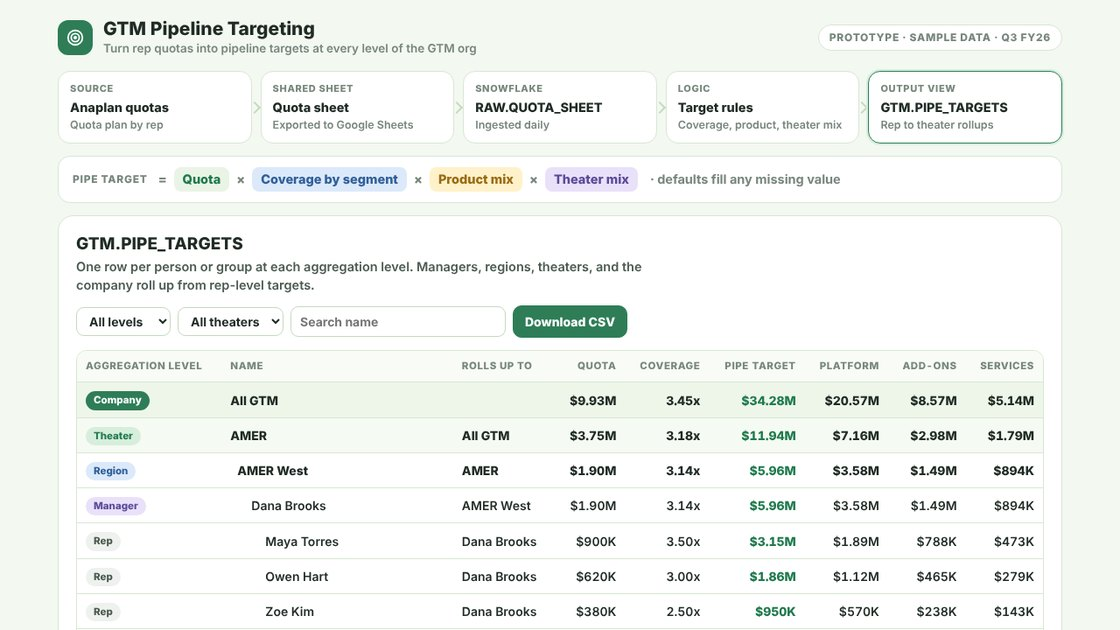
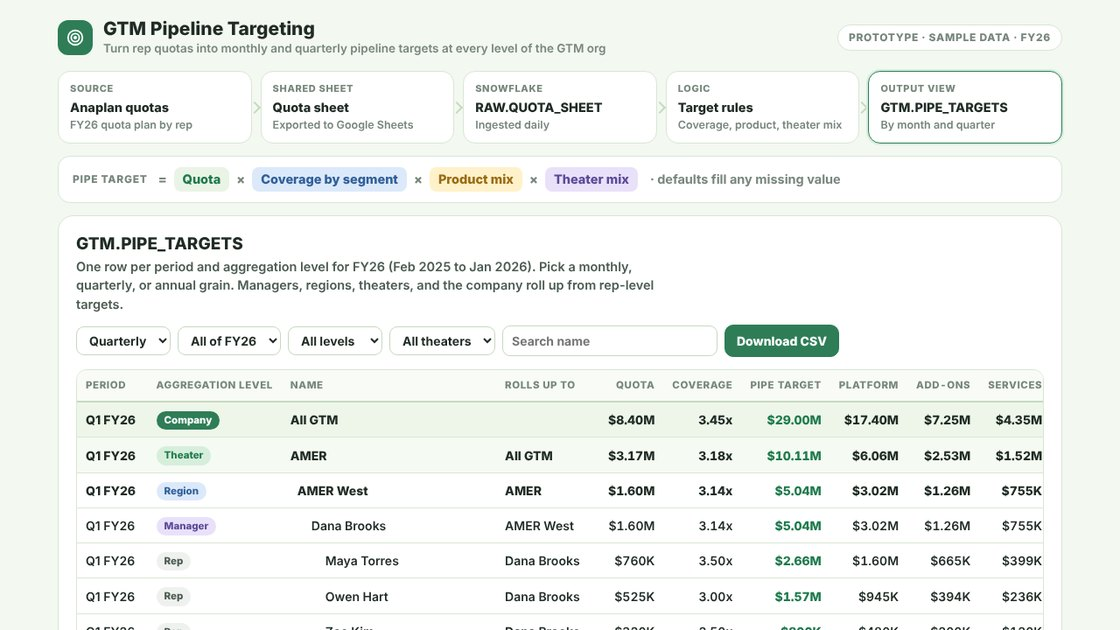
Scorecard: gross retention rate; pipeline targets: FY26 monthly and quarterly
OKR and KPI Scorecard: replace net revenue retention with gross retention
rate and add a formula tooltip (customers at start still here / customers
at start).

GTM Pipeline Targeting: quota sheet now has Q1-Q4 FY26 quotas; output
view adds time grain (monthly, quarterly, annual) and period columns
listed for the full year, with editable monthly phasing, updated view
SQL, and CSV export by grain.

Claude-Session: https://claude.ai/code/session_012KZoca3tAZxyi3oCaJbwMw

diff --git a/pipeline-targets.html b/pipeline-targets.html
@@ -79,7 +79,9 @@ tr.l-region td{font-weight:800}
 .meta code,.code code{font-family:var(--mono)}
 
 /* assumptions */
-.agrid{display:grid;grid-template-columns:repeat(3,minmax(0,1fr));gap:14px}
+.agrid{display:grid;grid-template-columns:repeat(4,minmax(0,1fr));gap:14px}
+.inrow input{width:72px!important}
+tr.pstart td{border-top:2px solid var(--line-2)}
 .box{border:1px solid var(--line);border-radius:14px;padding:14px}
 .box h3{font-size:15px;font-weight:800;margin-bottom:2px}
 .box p{font-size:13px;color:var(--ink-3);margin-bottom:10px}
@@ -98,8 +100,8 @@ tr.l-region td{font-weight:800}
 .toast{position:fixed;left:50%;bottom:20px;transform:translateX(-50%) translateY(20px);opacity:0;background:var(--ink);color:#fff;border-radius:999px;padding:9px 18px;font-size:14px;font-weight:700;transition:all .25s ease;pointer-events:none}
 .toast.show{opacity:1;transform:translateX(-50%) translateY(0)}
 .foot{margin-top:18px;text-align:center;font-size:12.5px;color:var(--ink-3)}
-@media (max-width:900px){ .flow{grid-template-columns:repeat(2,minmax(0,1fr))} .step::after{display:none} .agrid{grid-template-columns:minmax(0,1fr)} }
-@media (max-width:520px){ .flow{grid-template-columns:minmax(0,1fr)} .panel{padding:14px} }
+@media (max-width:900px){ .flow{grid-template-columns:repeat(2,minmax(0,1fr))} .step::after{display:none} .agrid{grid-template-columns:repeat(2,minmax(0,1fr))} }
+@media (max-width:520px){ .agrid{grid-template-columns:minmax(0,1fr)} .flow{grid-template-columns:minmax(0,1fr)} .panel{padding:14px} }
 </style>
 </head>
 <body>
@@ -107,17 +109,17 @@ tr.l-region td{font-weight:800}
   <header class="top">
     <div class="brand">
       <div class="logo" aria-hidden="true"><svg viewBox="0 0 24 24" fill="none" stroke="#fff" stroke-width="2" stroke-linecap="round" stroke-linejoin="round"><circle cx="12" cy="12" r="9"/><circle cx="12" cy="12" r="5"/><circle cx="12" cy="12" r="1.2" fill="#fff"/></svg></div>
-      <div><h1>GTM Pipeline Targeting</h1><p>Turn rep quotas into pipeline targets at every level of the GTM org</p></div>
+      <div><h1>GTM Pipeline Targeting</h1><p>Turn rep quotas into monthly and quarterly pipeline targets at every level of the GTM org</p></div>
     </div>
-    <span class="chip">Prototype · sample data · Q3 FY26</span>
+    <span class="chip">Prototype · sample data · FY26</span>
   </header>
 
   <nav class="flow" aria-label="Data flow">
-    <button class="step" data-v="none"><small>Source</small><b>Anaplan quotas</b><span>Quota plan by rep</span></button>
+    <button class="step" data-v="none"><small>Source</small><b>Anaplan quotas</b><span>FY26 quota plan by rep</span></button>
     <button class="step" data-v="input"><small>Shared sheet</small><b>Quota sheet</b><span>Exported to Google Sheets</span></button>
     <button class="step" data-v="input"><small>Snowflake</small><b>RAW.QUOTA_SHEET</b><span>Ingested daily</span></button>
     <button class="step" data-v="assume"><small>Logic</small><b>Target rules</b><span>Coverage, product, theater mix</span></button>
-    <button class="step on" data-v="output"><small>Output view</small><b>GTM.PIPE_TARGETS</b><span>Rep to theater rollups</span></button>
+    <button class="step on" data-v="output"><small>Output view</small><b>GTM.PIPE_TARGETS</b><span>By month and quarter</span></button>
   </nav>
 
   <div class="formula" aria-label="Formula">
@@ -132,22 +134,24 @@ tr.l-region td{font-weight:800}
   <!-- OUTPUT -->
   <section class="panel" id="v-output">
     <div class="ph">
-      <div><h2>GTM.PIPE_TARGETS</h2><p>One row per person or group at each aggregation level. Managers, regions, theaters, and the company roll up from rep-level targets.</p></div>
+      <div><h2>GTM.PIPE_TARGETS</h2><p>One row per period and aggregation level for FY26 (Feb 2025 to Jan 2026). Pick a monthly, quarterly, or annual grain. Managers, regions, theaters, and the company roll up from rep-level targets.</p></div>
       <div class="controls">
+        <select class="inline" id="fGrain" aria-label="Time grain"><option value="quarter">Quarterly</option><option value="month">Monthly</option><option value="year">Annual</option></select>
+        <select class="inline" id="fPeriod" aria-label="Period"></select>
         <select class="inline" id="fLevel" aria-label="Aggregation level"><option value="">All levels</option><option value="company">Company</option><option value="theater">Theater</option><option value="region">Region</option><option value="manager">Manager</option><option value="rep">Rep</option></select>
         <select class="inline" id="fTheater" aria-label="Theater"><option value="">All theaters</option><option>AMER</option><option>EMEA</option><option>APAC</option></select>
         <input class="search" id="fSearch" type="search" placeholder="Search name" aria-label="Search name">
         <button class="btn primary" id="csv">Download CSV</button>
       </div>
     </div>
-    <div class="tw"><table><thead><tr><th>Aggregation level</th><th>Name</th><th>Rolls up to</th><th class="num">Quota</th><th class="num">Coverage</th><th class="num">Pipe target</th><th class="num">Platform</th><th class="num">Add-ons</th><th class="num">Services</th></tr></thead><tbody id="outBody"></tbody></table></div>
+    <div class="tw"><table><thead><tr><th>Period</th><th>Aggregation level</th><th>Name</th><th>Rolls up to</th><th class="num">Quota</th><th class="num">Coverage</th><th class="num">Pipe target</th><th class="num">Platform</th><th class="num">Add-ons</th><th class="num">Services</th></tr></thead><tbody id="outBody"></tbody></table></div>
     <div class="meta" id="outMeta"></div>
   </section>
 
   <!-- INPUT -->
   <section class="panel" id="v-input" hidden>
-    <div class="ph"><div><h2>RAW.QUOTA_SHEET</h2><p>Quarterly quotas exported from Anaplan to a shared Google Sheet and ingested into Snowflake. Rows missing a segment use the default coverage.</p></div></div>
-    <div class="tw"><table><thead><tr><th>rep_name</th><th>manager</th><th>region</th><th>theater</th><th>segment</th><th class="num">q3_quota</th></tr></thead><tbody id="inBody"></tbody></table></div>
+    <div class="ph"><div><h2>RAW.QUOTA_SHEET</h2><p>FY26 quarterly quotas exported from Anaplan to a shared Google Sheet and ingested into Snowflake. Rows missing a segment use the default coverage.</p></div></div>
+    <div class="tw"><table><thead><tr><th>rep_name</th><th>manager</th><th>region</th><th>theater</th><th>segment</th><th class="num">q1_quota</th><th class="num">q2_quota</th><th class="num">q3_quota</th><th class="num">q4_quota</th><th class="num">fy26_total</th></tr></thead><tbody id="inBody"></tbody></table></div>
     <div class="meta"><span>Source: <code>Anaplan › FY26 Quota Plan</code></span><span>Sheet: <code>FY26 Quotas (export)</code></span><span>Loaded: <code>RAW.QUOTA_SHEET</code>, 18 rows</span></div>
   </section>
 
@@ -158,6 +162,7 @@ tr.l-region td{font-weight:800}
       <div class="box"><h3>Coverage by segment</h3><p>Pipeline needed per $1 of quota.</p><div id="covIn"></div></div>
       <div class="box"><h3>Product mix</h3><p>Share of pipeline by product. Must total 100%.</p><div id="mixIn"></div><div class="sum" id="mixSum"></div></div>
       <div class="box"><h3>Theater mix</h3><p>Adjusts for conversion differences by theater.</p><div id="thIn"></div></div>
+      <div class="box"><h3>Monthly phasing</h3><p>How each quarter's target splits across its three months. Must total 100%.</p><div id="phIn"></div><div class="sum" id="phSum"></div></div>
     </div>
   </section>
 
@@ -175,19 +180,33 @@ tr.l-region td{font-weight:800}
 <div class="toast" id="toast" role="status" aria-live="polite"></div>
 
 <script>
-/* ------------ sample quota sheet ------------ */
+/* ------------ sample quota sheet (FY26 = Feb 2025 to Jan 2026) ------------ */
 const ORG = [
-  {theater:'AMER', region:'West',   manager:'Dana Brooks',  reps:[['Maya Torres','Enterprise',900000],['Owen Hart','Mid-Market',620000],['Zoe Kim','SMB',380000]]},
-  {theater:'AMER', region:'East',   manager:'Luis Ortega',  reps:[['Jordan Lee','Enterprise',850000],['Rachel Green','Mid-Market',600000],['Sam Patel','',400000]]},
-  {theater:'EMEA', region:'UK&I',   manager:'Fiona Walsh',  reps:[['Oliver Grant','Enterprise',780000],['Amelia Price','Mid-Market',540000],['Harry Doyle','SMB',350000]]},
-  {theater:'EMEA', region:'DACH',   manager:'Jonas Weber',  reps:[['Lena Fischer','Enterprise',760000],['Max Braun','Mid-Market',520000],['Mia Wolf','',340000]]},
-  {theater:'APAC', region:'ANZ',    manager:'Chloe Tan',    reps:[['Jack Wilson','Enterprise',640000],['Ruby Chen','Mid-Market',450000],['Liam Ng','SMB',300000]]},
-  {theater:'APAC', region:'Japan',  manager:'Kenji Mori',   reps:[['Hana Sato','Enterprise',700000],['Yuto Ito','Mid-Market',480000],['Aiko Mori','SMB',320000]]}
+  {theater:'AMER', region:'West',   manager:'Dana Brooks',  reps:[['Maya Torres','Enterprise',3460000],['Owen Hart','Mid-Market',2380000],['Zoe Kim','SMB',1460000]]},
+  {theater:'AMER', region:'East',   manager:'Luis Ortega',  reps:[['Jordan Lee','Enterprise',3270000],['Rachel Green','Mid-Market',2310000],['Sam Patel','',1540000]]},
+  {theater:'EMEA', region:'UK&I',   manager:'Fiona Walsh',  reps:[['Oliver Grant','Enterprise',3000000],['Amelia Price','Mid-Market',2080000],['Harry Doyle','SMB',1350000]]},
+  {theater:'EMEA', region:'DACH',   manager:'Jonas Weber',  reps:[['Lena Fischer','Enterprise',2920000],['Max Braun','Mid-Market',2000000],['Mia Wolf','',1310000]]},
+  {theater:'APAC', region:'ANZ',    manager:'Chloe Tan',    reps:[['Jack Wilson','Enterprise',2460000],['Ruby Chen','Mid-Market',1730000],['Liam Ng','SMB',1150000]]},
+  {theater:'APAC', region:'Japan',  manager:'Kenji Mori',   reps:[['Hana Sato','Enterprise',2690000],['Yuto Ito','Mid-Market',1850000],['Aiko Mori','SMB',1230000]]}
 ];
-const REPS = ORG.flatMap(g => g.reps.map(r => ({name:r[0], segment:r[1], quota:r[2], manager:g.manager, region:g.region, theater:g.theater})));
+const Q_WEIGHTS = [0.22, 0.24, 0.26, 0.28];   // how Anaplan phases each rep's annual quota by quarter
+const round5k = v => Math.round(v/5000)*5000;
+const REPS = ORG.flatMap(g => g.reps.map(r => {
+  const q = Q_WEIGHTS.map(w => round5k(r[2]*w));
+  return {name:r[0], segment:r[1], q, fy:q.reduce((a,b)=>a+b,0), manager:g.manager, region:g.region, theater:g.theater};
+}));
 const PRODUCTS = ['Platform','Add-ons','Services'];
-const DEFAULTS = {cov:{Enterprise:3.5,'Mid-Market':3.0,SMB:2.5,Default:3.0}, mix:{Platform:60,'Add-ons':25,Services:15}, th:{AMER:1.00,EMEA:1.10,APAC:1.20}};
+const MONTHS = ['Feb 2025','Mar 2025','Apr 2025','May 2025','Jun 2025','Jul 2025','Aug 2025','Sep 2025','Oct 2025','Nov 2025','Dec 2025','Jan 2026'];
+const DEFAULTS = {cov:{Enterprise:3.5,'Mid-Market':3.0,SMB:2.5,Default:3.0}, mix:{Platform:60,'Add-ons':25,Services:15}, th:{AMER:1.00,EMEA:1.10,APAC:1.20}, ph:{'Month 1':30,'Month 2':33,'Month 3':37}};
 let A = JSON.parse(JSON.stringify(DEFAULTS));
+
+/* periods: each has a label and a function returning a rep's quota for it */
+function periods(grain){
+  if (grain==='year') return [{id:'FY26', label:'FY26', quota:r=>r.fy}];
+  if (grain==='quarter') return [0,1,2,3].map(i => ({id:'Q'+(i+1), label:'Q'+(i+1)+' FY26', quota:r=>r.q[i]}));
+  const ph = Object.values(A.ph);
+  return MONTHS.map((m,i) => ({id:'M'+(i+1), label:m, sub:'Q'+(Math.floor(i/3)+1), quota:r=>r.q[Math.floor(i/3)]*ph[i%3]/100}));
+}
 
 /* ------------ helpers ------------ */
 const $ = s => document.querySelector(s);
@@ -196,28 +215,32 @@ const money = v => v>=1e6 ? '$'+(v/1e6).toFixed(2)+'M' : '$'+Math.round(v/1e3)+'
 let toastT; function toast(m){ const t=$('#toast'); t.textContent=m; t.classList.add('show'); clearTimeout(toastT); toastT=setTimeout(()=>t.classList.remove('show'),1800); }
 
 /* ------------ target logic ------------ */
-function repTargets(r){
+function repTargets(r, quota){
   const cov = r.segment && A.cov[r.segment] != null ? A.cov[r.segment] : A.cov.Default;
   const th = A.th[r.theater] != null ? A.th[r.theater] : 1;
   const by = {}; let total = 0;
-  PRODUCTS.forEach(p => { by[p] = r.quota * cov * (A.mix[p]/100) * th; total += by[p]; });
-  return {cov, by, total, usedDefault: !r.segment};
+  PRODUCTS.forEach(p => { by[p] = quota * cov * (A.mix[p]/100) * th; total += by[p]; });
+  return {by, total};
 }
-function buildRows(){
+const GRAIN_LBL = {month:'Monthly', quarter:'Quarterly', year:'Annual'};
+function buildRows(grain){
   const rows = [];
-  const add = (level, name, parent, theater, reps, extra={}) => {
-    const t = reps.map(repTargets), quota = reps.reduce((s,r)=>s+r.quota,0);
-    const by = {}; PRODUCTS.forEach(p => by[p] = t.reduce((s,x)=>s+x.by[p],0));
-    const total = t.reduce((s,x)=>s+x.total,0);
-    rows.push(Object.assign({level, name, parent, theater, quota, total, by, cov: total/quota}, extra));
-  };
-  add('company','All GTM','',  'Global', REPS);
-  ['AMER','EMEA','APAC'].forEach(th => {
-    add('theater', th, 'All GTM', th, REPS.filter(r=>r.theater===th));
-    ORG.filter(g=>g.theater===th).forEach(g => {
-      add('region', th+' '+g.region, th, th, REPS.filter(r=>r.region===g.region));
-      add('manager', g.manager, th+' '+g.region, th, REPS.filter(r=>r.manager===g.manager));
-      REPS.filter(r=>r.manager===g.manager).forEach(r => add('rep', r.name, g.manager, th, [r], {usedDefault: !r.segment, segment:r.segment}));
+  periods(grain).forEach(per => {
+    const add = (level, name, parent, theater, reps, extra={}) => {
+      const quota = reps.reduce((s,r)=>s+per.quota(r),0);
+      const t = reps.map(r => repTargets(r, per.quota(r)));
+      const by = {}; PRODUCTS.forEach(p => by[p] = t.reduce((s,x)=>s+x.by[p],0));
+      const total = t.reduce((s,x)=>s+x.total,0);
+      rows.push(Object.assign({grain:GRAIN_LBL[grain], period:per.label, pid:per.id, level, name, parent, theater, quota, total, by, cov: quota? total/quota : 0}, extra));
+    };
+    add('company','All GTM','','Global', REPS);
+    ['AMER','EMEA','APAC'].forEach(th => {
+      add('theater', th, 'All GTM', th, REPS.filter(r=>r.theater===th));
+      ORG.filter(g=>g.theater===th).forEach(g => {
+        add('region', th+' '+g.region, th, th, REPS.filter(r=>r.region===g.region));
+        add('manager', g.manager, th+' '+g.region, th, REPS.filter(r=>r.manager===g.manager));
+        REPS.filter(r=>r.manager===g.manager).forEach(r => add('rep', r.name, g.manager, th, [r], {usedDefault: !r.segment}));
+      });
     });
   });
   return rows;
@@ -226,93 +249,118 @@ const IND = {company:'', theater:'', region:'ind1', manager:'ind2', rep:'ind3'};
 const LVL = {company:'Company', theater:'Theater', region:'Region', manager:'Manager', rep:'Rep'};
 
 /* ------------ views ------------ */
+function fillPeriods(){
+  const g = $('#fGrain').value, cur = $('#fPeriod').value;
+  const opts = periods(g);
+  $('#fPeriod').innerHTML = (opts.length>1 ? '<option value="">All of FY26</option>' : '') + opts.map(p=>`<option value="${p.id}">${p.label}</option>`).join('');
+  if ([...$('#fPeriod').options].some(o=>o.value===cur)) $('#fPeriod').value = cur;
+}
 function renderOutput(){
-  const lv = $('#fLevel').value, th = $('#fTheater').value, q = $('#fSearch').value.trim().toLowerCase();
-  const rows = buildRows().filter(r => (!lv || r.level===lv) && (!th || r.theater===th) && (!q || r.name.toLowerCase().includes(q)));
+  const g = $('#fGrain').value, pid = $('#fPeriod').value, lv = $('#fLevel').value, th = $('#fTheater').value, q = $('#fSearch').value.trim().toLowerCase();
+  const all = buildRows(g);
+  const rows = all.filter(r => (!pid || r.pid===pid) && (!lv || r.level===lv) && (!th || r.theater===th) && (!q || r.name.toLowerCase().includes(q)));
   const flat = !!lv || !!q;
-  $('#outBody').innerHTML = rows.map(r => `<tr class="l-${r.level}">
+  let last = null;
+  $('#outBody').innerHTML = rows.map(r => {
+    const first = r.period !== last; last = r.period;
+    return `<tr class="l-${r.level}${first?' pstart':''}">
+    <td>${esc(r.period)}</td>
     <td><span class="lv lv-${r.level}">${LVL[r.level]}</span></td>
     <td class="${flat?'':IND[r.level]}">${esc(r.name)}${r.usedDefault?'<span class="flag" title="Segment missing in quota sheet">default coverage</span>':''}</td>
     <td>${esc(r.parent)}</td>
     <td class="num">${money(r.quota)}</td><td class="num">${r.cov.toFixed(2)}x</td><td class="num tgt">${money(r.total)}</td>
-    ${PRODUCTS.map(p=>`<td class="num">${money(r.by[p])}</td>`).join('')}</tr>`).join('') || '<tr><td colspan="9" style="color:var(--ink-3)">No rows match these filters.</td></tr>';
-  const all = buildRows(), co = all[0];
-  $('#outMeta').innerHTML = `<span>${all.length} rows: 1 company, 3 theaters, 6 regions, 6 managers, 18 reps</span><span>Company pipe target <b style="color:var(--ink)">${money(co.total)}</b> on ${money(co.quota)} quota (${co.cov.toFixed(2)}x)</span><span>${REPS.filter(r=>!r.segment).length} reps used default coverage</span>`;
-  window._rows = all;
+    ${PRODUCTS.map(p=>`<td class="num">${money(r.by[p])}</td>`).join('')}</tr>`;
+  }).join('') || '<tr><td colspan="10" style="color:var(--ink-3)">No rows match these filters.</td></tr>';
+  const fy = buildRows('year')[0], np = periods(g).length;
+  $('#outMeta').innerHTML = `<span>${GRAIN_LBL[g]} grain: ${np} period${np>1?'s':''} × 34 rows = ${all.length} rows (showing ${rows.length})</span><span>FY26 company pipe target <b style="color:var(--ink)">${money(fy.total)}</b> on ${money(fy.quota)} quota</span><span>${REPS.filter(r=>!r.segment).length} reps used default coverage</span>`;
+  window._rows = rows;
 }
 function renderInput(){
-  $('#inBody').innerHTML = REPS.map(r => `<tr><td>${esc(r.name)}</td><td>${esc(r.manager)}</td><td>${esc(r.region)}</td><td>${r.theater}</td><td>${r.segment ? r.segment : '<span class="flag" style="margin:0">missing</span>'}</td><td class="num">${money(r.quota)}</td></tr>`).join('');
+  $('#inBody').innerHTML = REPS.map(r => `<tr><td>${esc(r.name)}</td><td>${esc(r.manager)}</td><td>${esc(r.region)}</td><td>${r.theater}</td><td>${r.segment ? r.segment : '<span class="flag" style="margin:0">missing</span>'}</td>${r.q.map(v=>`<td class="num">${money(v)}</td>`).join('')}<td class="num" style="font-weight:800">${money(r.fy)}</td></tr>`).join('');
 }
 function inputRow(group, key, val, step, suffix){
-  return `<div class="inrow"><label for="in-${group}-${key}">${key==='Default'?'Default (segment missing)':key}</label><span><input id="in-${group}-${key}" data-g="${group}" data-k="${key}" type="number" step="${step}" min="0" value="${val}"> <span style="color:var(--ink-3);font-weight:800">${suffix}</span></span></div>`;
+  return `<div class="inrow"><label for="in-${group}-${key}">${key==='Default'?'Default':key}</label><span><input id="in-${group}-${key.replace(/\s/g,'')}" data-g="${group}" data-k="${key}" type="number" step="${step}" min="0" value="${val}"> <span style="color:var(--ink-3);font-weight:800">${suffix}</span></span></div>`;
 }
 function renderAssume(){
   $('#covIn').innerHTML = Object.entries(A.cov).map(([k,v])=>inputRow('cov',k,v,0.1,'x')).join('');
   $('#mixIn').innerHTML = Object.entries(A.mix).map(([k,v])=>inputRow('mix',k,v,1,'%')).join('');
   $('#thIn').innerHTML = Object.entries(A.th).map(([k,v])=>inputRow('th',k,v.toFixed(2),0.05,'×')).join('');
-  mixCheck();
+  $('#phIn').innerHTML = Object.entries(A.ph).map(([k,v])=>inputRow('ph',k,v,1,'%')).join('');
+  sumCheck();
   document.querySelectorAll('.box input').forEach(i => i.oninput = () => {
     const v = parseFloat(i.value); if (isNaN(v) || v<0) return;
-    A[i.dataset.g][i.dataset.k] = v; mixCheck(); renderSql();
+    A[i.dataset.g][i.dataset.k] = v; sumCheck(); renderSql();
   });
 }
-function mixCheck(){
-  const s = Object.values(A.mix).reduce((a,b)=>a+b,0);
-  $('#mixSum').innerHTML = s===100 ? '<span class="ok">Total 100% ✓</span>' : `<span class="bad">Total ${s}%. Adjust to 100% so targets add up to the full coverage amount.</span>`;
+function sumCheck(){
+  [['mix','#mixSum','targets add up to the full coverage amount'],['ph','#phSum','months add up to the quarter']].forEach(([g,id,why]) => {
+    const s = Object.values(A[g]).reduce((a,b)=>a+b,0);
+    $(id).innerHTML = s===100 ? '<span class="ok">Total 100% ✓</span>' : `<span class="bad">Total ${s}%. Adjust to 100% so ${why}.</span>`;
+  });
 }
 function renderSql(){
-  const c=A.cov, m=A.mix, t=A.th;
-  $('#sqlPre').innerHTML = `<span class="cm">-- GTM.PIPE_TARGETS: pipeline targets by aggregation level</span>
+  const c=A.cov, m=A.mix, t=A.th, p=Object.values(A.ph);
+  $('#sqlPre').innerHTML = `<span class="cm">-- GTM.PIPE_TARGETS: pipeline targets by time grain, period, and aggregation level (FY26)</span>
 <span class="kw">create or replace view</span> GTM.PIPE_TARGETS <span class="kw">as</span>
-<span class="kw">with</span> quotas <span class="kw">as</span> (
-  <span class="kw">select</span> rep_name, manager, region, theater, segment, q3_quota <span class="kw">as</span> quota
-  <span class="kw">from</span> RAW.QUOTA_SHEET                      <span class="cm">-- Anaplan export via Google Sheets</span>
+<span class="kw">with</span> quarterly_quota <span class="kw">as</span> (           <span class="cm">-- Anaplan export via Google Sheets, one column per quarter</span>
+  <span class="kw">select</span> rep_name, manager, region, theater, segment, fiscal_quarter, quota
+  <span class="kw">from</span> RAW.QUOTA_SHEET
+  <span class="kw">unpivot</span> (quota <span class="kw">for</span> fiscal_quarter <span class="kw">in</span> (q1_quota <span class="kw">as</span> <span class="st">'Q1'</span>, q2_quota <span class="kw">as</span> <span class="st">'Q2'</span>, q3_quota <span class="kw">as</span> <span class="st">'Q3'</span>, q4_quota <span class="kw">as</span> <span class="st">'Q4'</span>))
 ),
-rules <span class="kw">as</span> (
-  <span class="kw">select</span> q.*,
-    <span class="fn">coalesce</span>(cov.multiple, ${c.Default.toFixed(1)})      <span class="kw">as</span> coverage,       <span class="cm">-- default when segment is missing</span>
-    <span class="fn">coalesce</span>(th.factor, 1.00)        <span class="kw">as</span> theater_mix
-  <span class="kw">from</span> quotas q
-  <span class="kw">left join</span> CONFIG.COVERAGE_BY_SEGMENT cov <span class="kw">on</span> cov.segment = q.segment   <span class="cm">-- Ent ${c.Enterprise}x, MM ${c['Mid-Market']}x, SMB ${c.SMB}x</span>
-  <span class="kw">left join</span> CONFIG.THEATER_MIX th          <span class="kw">on</span> th.theater = q.theater    <span class="cm">-- AMER ${t.AMER.toFixed(2)}, EMEA ${t.EMEA.toFixed(2)}, APAC ${t.APAC.toFixed(2)}</span>
+monthly_quota <span class="kw">as</span> (             <span class="cm">-- month phasing within the quarter: ${p[0]}% / ${p[1]}% / ${p[2]}%</span>
+  <span class="kw">select</span> q.rep_name, q.manager, q.region, q.theater, q.segment, q.fiscal_quarter,
+         c.fiscal_month, q.quota * ph.pct <span class="kw">as</span> quota
+  <span class="kw">from</span> quarterly_quota q
+  <span class="kw">join</span> CONFIG.FISCAL_CALENDAR c <span class="kw">on</span> c.fiscal_year = <span class="st">'FY26'</span> <span class="kw">and</span> c.fiscal_quarter = q.fiscal_quarter
+  <span class="kw">join</span> CONFIG.MONTH_PHASING ph  <span class="kw">on</span> ph.month_of_quarter = c.month_of_quarter
 ),
 rep_targets <span class="kw">as</span> (
-  <span class="kw">select</span> r.*, pm.product,
-    r.quota * r.coverage * pm.mix_pct * r.theater_mix <span class="kw">as</span> pipe_target
-  <span class="kw">from</span> rules r
-  <span class="kw">cross join</span> CONFIG.PRODUCT_MIX pm             <span class="cm">-- Platform ${m.Platform}%, Add-ons ${m['Add-ons']}%, Services ${m.Services}%</span>
+  <span class="kw">select</span> mq.*, pm.product,
+    mq.quota
+    * <span class="fn">coalesce</span>(cov.multiple, ${c.Default.toFixed(1)})    <span class="cm">-- Ent ${c.Enterprise}x, MM ${c['Mid-Market']}x, SMB ${c.SMB}x; default when segment is missing</span>
+    * pm.mix_pct                      <span class="cm">-- Platform ${m.Platform}%, Add-ons ${m['Add-ons']}%, Services ${m.Services}%</span>
+    * <span class="fn">coalesce</span>(th.factor, 1.00)      <span class="cm">-- AMER ${t.AMER.toFixed(2)}, EMEA ${t.EMEA.toFixed(2)}, APAC ${t.APAC.toFixed(2)}</span>
+    <span class="kw">as</span> pipe_target
+  <span class="kw">from</span> monthly_quota mq
+  <span class="kw">left join</span> CONFIG.COVERAGE_BY_SEGMENT cov <span class="kw">on</span> cov.segment = mq.segment
+  <span class="kw">left join</span> CONFIG.THEATER_MIX th          <span class="kw">on</span> th.theater = mq.theater
+  <span class="kw">cross join</span> CONFIG.PRODUCT_MIX pm
+),
+grains <span class="kw">as</span> (                     <span class="cm">-- the same monthly rows, labeled at each time grain</span>
+  <span class="kw">select</span> <span class="st">'Monthly'</span>   <span class="kw">as</span> time_grain, fiscal_month          <span class="kw">as</span> period, * <span class="kw">from</span> rep_targets
+  <span class="kw">union all select</span> <span class="st">'Quarterly'</span>, fiscal_quarter || <span class="st">' FY26'</span>, * <span class="kw">from</span> rep_targets
+  <span class="kw">union all select</span> <span class="st">'Annual'</span>,    <span class="st">'FY26'</span>,                   * <span class="kw">from</span> rep_targets
 )
-<span class="kw">select</span> <span class="st">'Rep'</span>     <span class="kw">as</span> aggregation_level, rep_name <span class="kw">as</span> name, manager <span class="kw">as</span> parent, theater, product, <span class="fn">sum</span>(quota) <span class="kw">as</span> quota, <span class="fn">sum</span>(pipe_target) <span class="kw">as</span> pipe_target <span class="kw">from</span> rep_targets <span class="kw">group by</span> 1,2,3,4,5
+<span class="kw">select</span> time_grain, period, <span class="st">'Rep'</span>     <span class="kw">as</span> aggregation_level, rep_name <span class="kw">as</span> name, manager <span class="kw">as</span> parent, theater, product, <span class="fn">sum</span>(quota) <span class="kw">as</span> quota, <span class="fn">sum</span>(pipe_target) <span class="kw">as</span> pipe_target <span class="kw">from</span> grains <span class="kw">group by</span> 1,2,3,4,5,6,7
 <span class="kw">union all</span>
-<span class="kw">select</span> <span class="st">'Manager'</span>, manager, theater || <span class="st">' '</span> || region, theater, product, <span class="fn">sum</span>(quota), <span class="fn">sum</span>(pipe_target) <span class="kw">from</span> rep_targets <span class="kw">group by</span> 1,2,3,4,5
+<span class="kw">select</span> time_grain, period, <span class="st">'Manager'</span>, manager, theater || <span class="st">' '</span> || region, theater, product, <span class="fn">sum</span>(quota), <span class="fn">sum</span>(pipe_target) <span class="kw">from</span> grains <span class="kw">group by</span> 1,2,3,4,5,6,7
 <span class="kw">union all</span>
-<span class="kw">select</span> <span class="st">'Region'</span>,  theater || <span class="st">' '</span> || region, theater, theater, product, <span class="fn">sum</span>(quota), <span class="fn">sum</span>(pipe_target) <span class="kw">from</span> rep_targets <span class="kw">group by</span> 1,2,3,4,5
+<span class="kw">select</span> time_grain, period, <span class="st">'Region'</span>,  theater || <span class="st">' '</span> || region, theater, theater, product, <span class="fn">sum</span>(quota), <span class="fn">sum</span>(pipe_target) <span class="kw">from</span> grains <span class="kw">group by</span> 1,2,3,4,5,6,7
 <span class="kw">union all</span>
-<span class="kw">select</span> <span class="st">'Theater'</span>, theater, <span class="st">'All GTM'</span>, theater, product, <span class="fn">sum</span>(quota), <span class="fn">sum</span>(pipe_target) <span class="kw">from</span> rep_targets <span class="kw">group by</span> 1,2,3,4,5
+<span class="kw">select</span> time_grain, period, <span class="st">'Theater'</span>, theater, <span class="st">'All GTM'</span>, theater, product, <span class="fn">sum</span>(quota), <span class="fn">sum</span>(pipe_target) <span class="kw">from</span> grains <span class="kw">group by</span> 1,2,3,4,5,6,7
 <span class="kw">union all</span>
-<span class="kw">select</span> <span class="st">'Company'</span>, <span class="st">'All GTM'</span>, <span class="kw">null</span>, <span class="st">'Global'</span>, product, <span class="fn">sum</span>(quota), <span class="fn">sum</span>(pipe_target) <span class="kw">from</span> rep_targets <span class="kw">group by</span> 1,2,3,4,5;
-<span class="cm">-- note: quota is repeated per product row; sum it once per name when reporting</span>`;
+<span class="kw">select</span> time_grain, period, <span class="st">'Company'</span>, <span class="st">'All GTM'</span>, <span class="kw">null</span>, <span class="st">'Global'</span>, product, <span class="fn">sum</span>(quota), <span class="fn">sum</span>(pipe_target) <span class="kw">from</span> grains <span class="kw">group by</span> 1,2,3,4,5,6,7;
+<span class="cm">-- note: quota repeats on each product row; sum it once per name and period when reporting</span>`;
 }
 
 /* ------------ navigation ------------ */
-let view = 'output';
 function show(v){
-  view = v;
   ['output','input','assume','sql'].forEach(x => document.getElementById('v-'+x).hidden = x!==v);
   document.querySelectorAll('.step').forEach(s => s.classList.toggle('on', s.dataset.v===v));
-  if (v==='output') renderOutput();
+  if (v==='output'){ fillPeriods(); renderOutput(); }
 }
 document.querySelectorAll('.step').forEach(s => s.onclick = () => { if (s.dataset.v!=='none') show(s.dataset.v); });
 document.querySelectorAll('[data-go]').forEach(b => b.onclick = () => { show(b.dataset.go); window.scrollTo({top:0, behavior:'smooth'}); });
-['fLevel','fTheater'].forEach(id => $('#'+id).onchange = renderOutput);
+$('#fGrain').onchange = () => { $('#fPeriod').value=''; fillPeriods(); renderOutput(); };
+['fPeriod','fLevel','fTheater'].forEach(id => $('#'+id).onchange = renderOutput);
 $('#fSearch').oninput = renderOutput;
 $('#reset').onclick = () => { A = JSON.parse(JSON.stringify(DEFAULTS)); renderAssume(); renderSql(); toast('Target rules reset'); };
 $('#csv').onclick = () => {
-  const head = ['aggregation_level','name','parent','theater','quota','coverage','pipe_target',...PRODUCTS.map(p=>'pipe_'+p.toLowerCase().replace(/[^a-z]/g,''))];
-  const lines = [head.join(',')].concat(window._rows.map(r => [LVL[r.level], r.name, r.parent, r.theater, Math.round(r.quota), r.cov.toFixed(2), Math.round(r.total), ...PRODUCTS.map(p=>Math.round(r.by[p]))].map(v => /[",]/.test(String(v)) ? '"'+String(v).replace(/"/g,'""')+'"' : v).join(',')));
+  const head = ['time_grain','period','aggregation_level','name','parent','theater','quota','coverage','pipe_target',...PRODUCTS.map(p=>'pipe_'+p.toLowerCase().replace(/[^a-z]/g,''))];
+  const lines = [head.join(',')].concat(window._rows.map(r => [r.grain, r.period, LVL[r.level], r.name, r.parent, r.theater, Math.round(r.quota), r.cov.toFixed(2), Math.round(r.total), ...PRODUCTS.map(p=>Math.round(r.by[p]))].map(v => /[",]/.test(String(v)) ? '"'+String(v).replace(/"/g,'""')+'"' : v).join(',')));
   const url = URL.createObjectURL(new Blob([lines.join('\n')], {type:'text/csv'}));
-  const a = document.createElement('a'); a.href = url; a.download = 'pipe_targets_q3_fy26.csv'; document.body.appendChild(a); a.click(); a.remove(); setTimeout(()=>URL.revokeObjectURL(url), 1000);
-  toast('Downloaded pipe_targets_q3_fy26.csv');
+  const a = document.createElement('a'); a.href = url; a.download = 'pipe_targets_fy26_' + $('#fGrain').value + '.csv'; document.body.appendChild(a); a.click(); a.remove(); setTimeout(()=>URL.revokeObjectURL(url), 1000);
+  toast('Downloaded ' + a.download);
 };
 
 renderInput(); renderAssume(); renderSql(); show('output');

diff --git a/okr-kpi-scorecard.html b/okr-kpi-scorecard.html
@@ -56,6 +56,11 @@ select.inline{border:1px solid var(--line-2);border-radius:9px;padding:6px 10px;
 .obj svg{flex:none;margin-top:2px}
 .ch{display:flex;justify-content:space-between;align-items:flex-start;gap:8px}
 .ch h4{font-size:15.5px;font-weight:800;line-height:1.3}
+.tip{position:relative;display:inline-flex;vertical-align:middle;margin-left:4px}
+.tip button{width:18px;height:18px;border-radius:50%;border:1px solid var(--line-2);background:var(--surface);color:var(--ink-3);font-size:11px;font-weight:800;line-height:1;cursor:help;padding:0;display:grid;place-items:center}
+.tip .tt{position:absolute;right:-8px;top:calc(100% + 8px);width:min(250px,62vw);background:var(--ink);color:#fff;border-radius:10px;padding:9px 11px;font-size:12.5px;font-weight:600;line-height:1.45;opacity:0;visibility:hidden;transition:opacity .15s;z-index:5;box-shadow:0 6px 18px rgba(0,0,0,.15)}
+.tip .tt b{display:block;font-size:11px;letter-spacing:.06em;text-transform:uppercase;color:#9FD0A9;margin-bottom:3px}
+.tip:hover .tt,.tip:focus-within .tt{opacity:1;visibility:visible}
 .pill{display:inline-flex;align-items:center;border-radius:999px;padding:3px 10px;font-size:12px;font-weight:800;white-space:nowrap}
 .s-on{background:var(--accent-soft);color:var(--accent)}
 .s-risk{background:var(--warn-soft);color:var(--warn)}
@@ -143,8 +148,9 @@ const SCOPES = [
       ai:'100 customers added this quarter, about 20 fewer than plan. Self-serve sign-ups converted well; sales-assisted SMB lagged.'}),
     M({id:'ent', obj:'Win more enterprise customers', name:'Customers over $100K ARR', unit:'num', better:'up', a:312, t:300, hist:[210,224,241,256,270,284,297],
       ai:'Ahead of target with 15 new $100K+ customers. Nine came from expansion of existing Mid-Market accounts.'}),
-    M({id:'nrr', obj:'Keep and grow our customers', name:'Net revenue retention', unit:'pct', better:'up', a:108, t:112, hist:[104,105,105,106,107,107,108],
-      ai:'NRR held flat at 108%, 4 points under target. Lower expansion and higher SMB churn offset gains in Enterprise.'})
+    M({id:'grr', obj:'Keep our customers', name:'Gross retention rate', unit:'pct', better:'up', a:91.5, t:93, hist:[89.2,89.8,90.1,90.6,90.9,91.2,91.0],
+      def:'Out of all customers at the start of the quarter, the share still customers at the end. Customers at start who are still here ÷ customers at start. New customers in the quarter are not counted.',
+      ai:'Gross retention is 91.5%, 1.5 points under target. Most losses were SMB customers with low product usage in the prior 90 days; Enterprise retention held at 98%.'})
    ]},
   {id:'field', name:'Field / Sales', owner:'CRO',
    kpis:[
@@ -256,7 +262,7 @@ function card(m, kind){
   const tgtLabel = m.better==='down' ? 'Ceiling' : 'Target';
   return `<article class="card ${drill.metric===m.id?'sel':''}" data-id="${m.id}">
     ${kind==='okr' ? `<div class="obj">${FLAG}<span>Objective: ${m.obj}</span></div>` : ''}
-    <div class="ch"><h4>${kind==='okr'?'KR: ':''}${m.name}</h4><span class="pill ${sc}">${sl}</span></div>
+    <div class="ch"><h4>${kind==='okr'?'KR: ':''}${m.name}${m.def?`<span class="tip"><button type="button" aria-label="How ${m.name} is calculated">i</button><span class="tt" role="tooltip"><b>Formula</b>${m.def}</span></span>`:''}</h4><span class="pill ${sc}">${sl}</span></div>
     <div class="stats">
       <div class="stat"><small>Actual</small><b>${fmt(m.a,m.unit)}</b></div>
       <div class="stat"><small>${tgtLabel}</small><b>${fmt(m.t,m.unit)}</b></div>

diff --git a/index.html b/index.html
@@ -254,7 +254,7 @@ footer p{color:var(--ink-2);max-width:46ch}
         <div class="body">
           <span class="eyebrow">Sales planning</span>
           <h3>GTM Pipeline Targeting</h3>
-          <p class="what">Turns each rep's Anaplan quota into pipeline targets: quota × coverage by segment × product mix × theater mix. The output is a Snowflake view with targets at rep, manager, region, and theater levels.</p>
+          <p class="what">Turns each rep's Anaplan quota into pipeline targets: quota × coverage by segment × product mix × theater mix. The output is a Snowflake view with FY26 monthly and quarterly targets at rep, manager, region, and theater levels.</p>
           <p class="win">Automated pipeline targeting across every level of the GTM org.</p>
           <div class="foot">
             <a class="open" href="https://d8chang.github.io/ai-prototypes/pipeline-targets.html" target="_blank" rel="noopener">Open prototype ↗</a>
